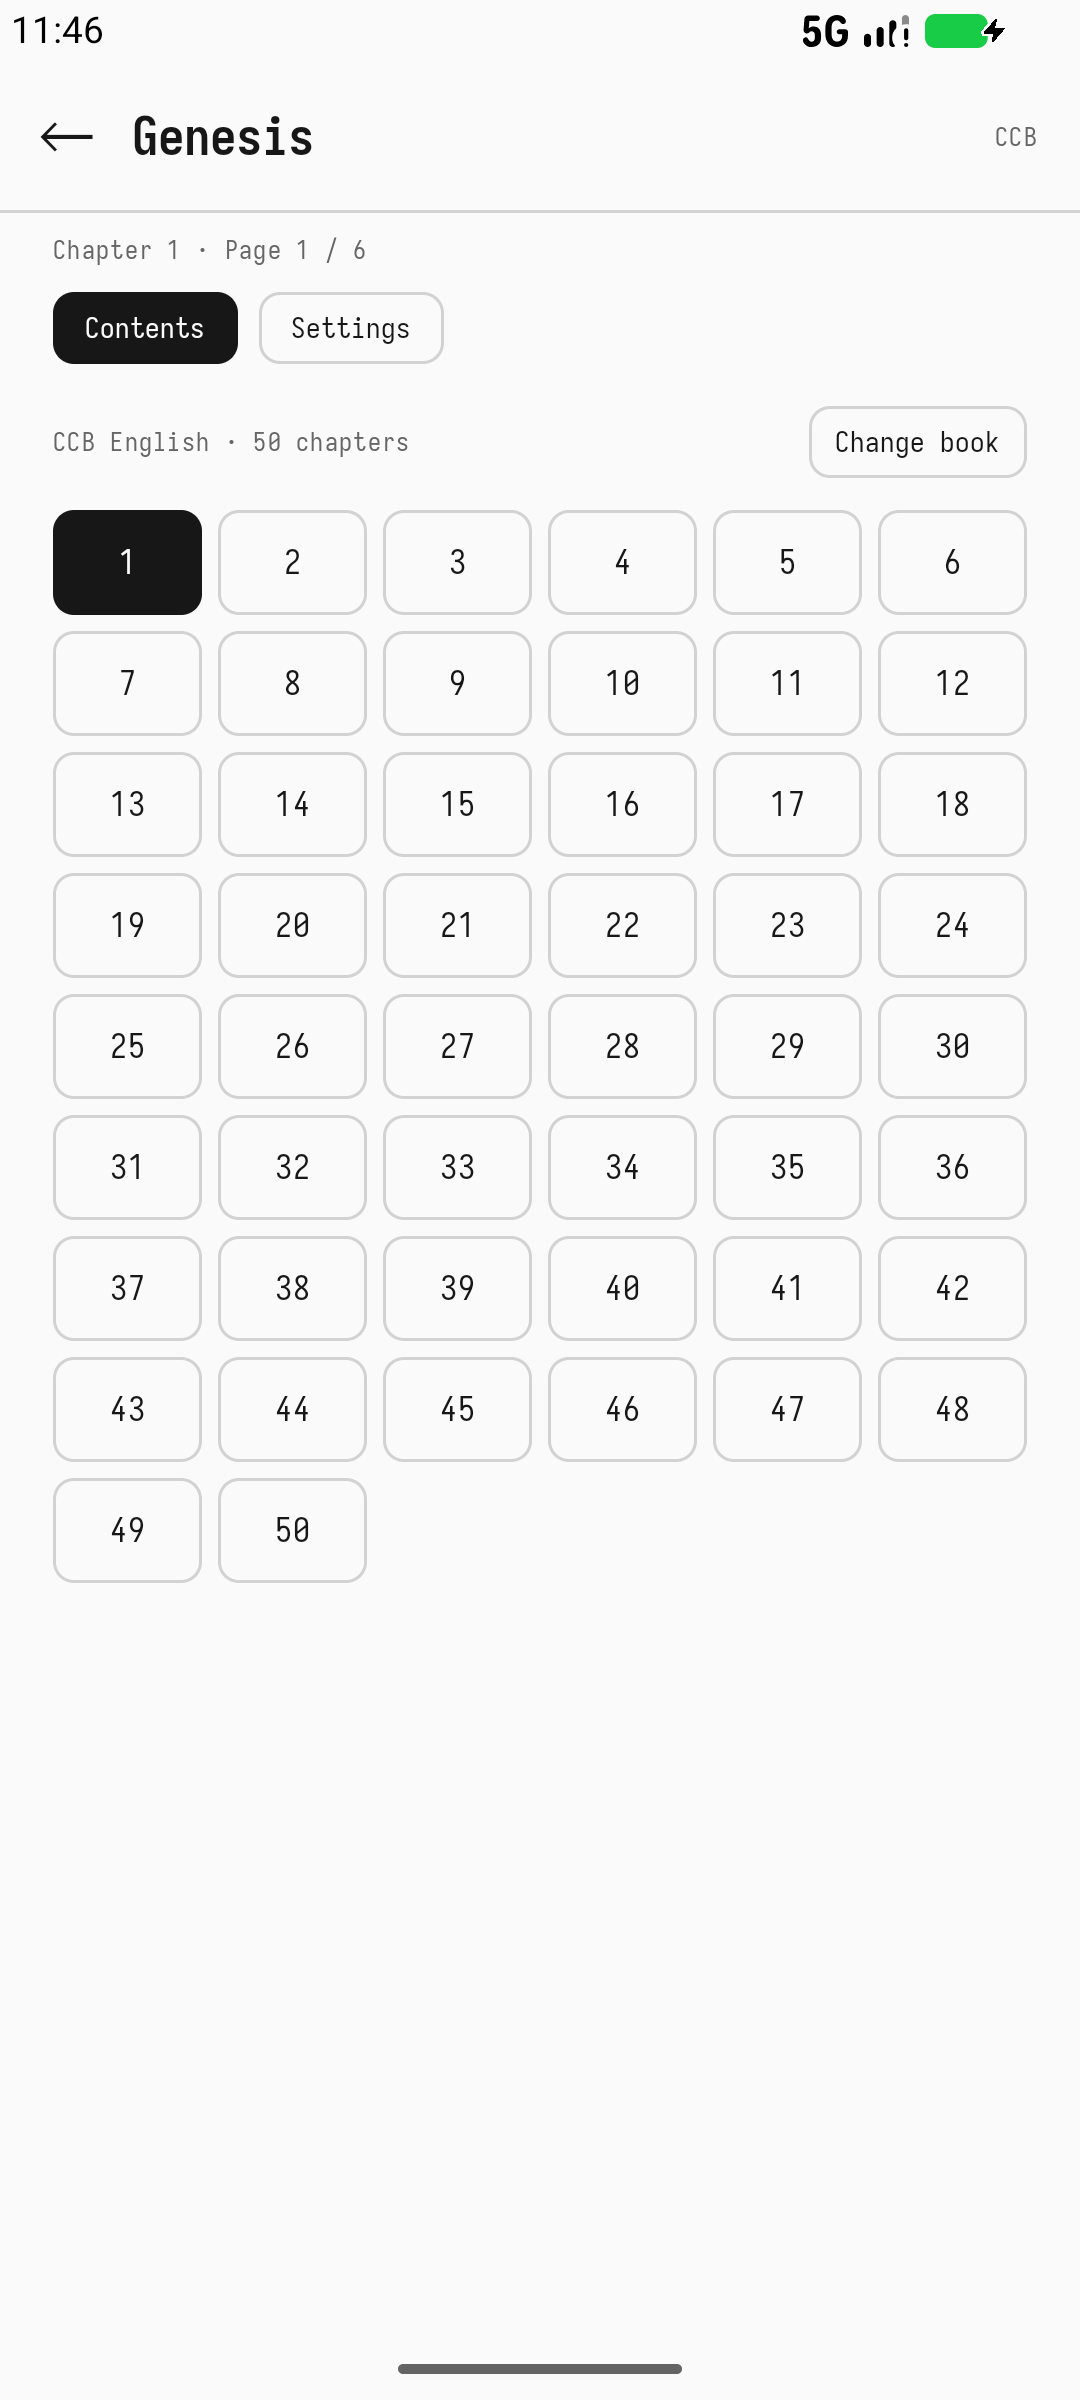
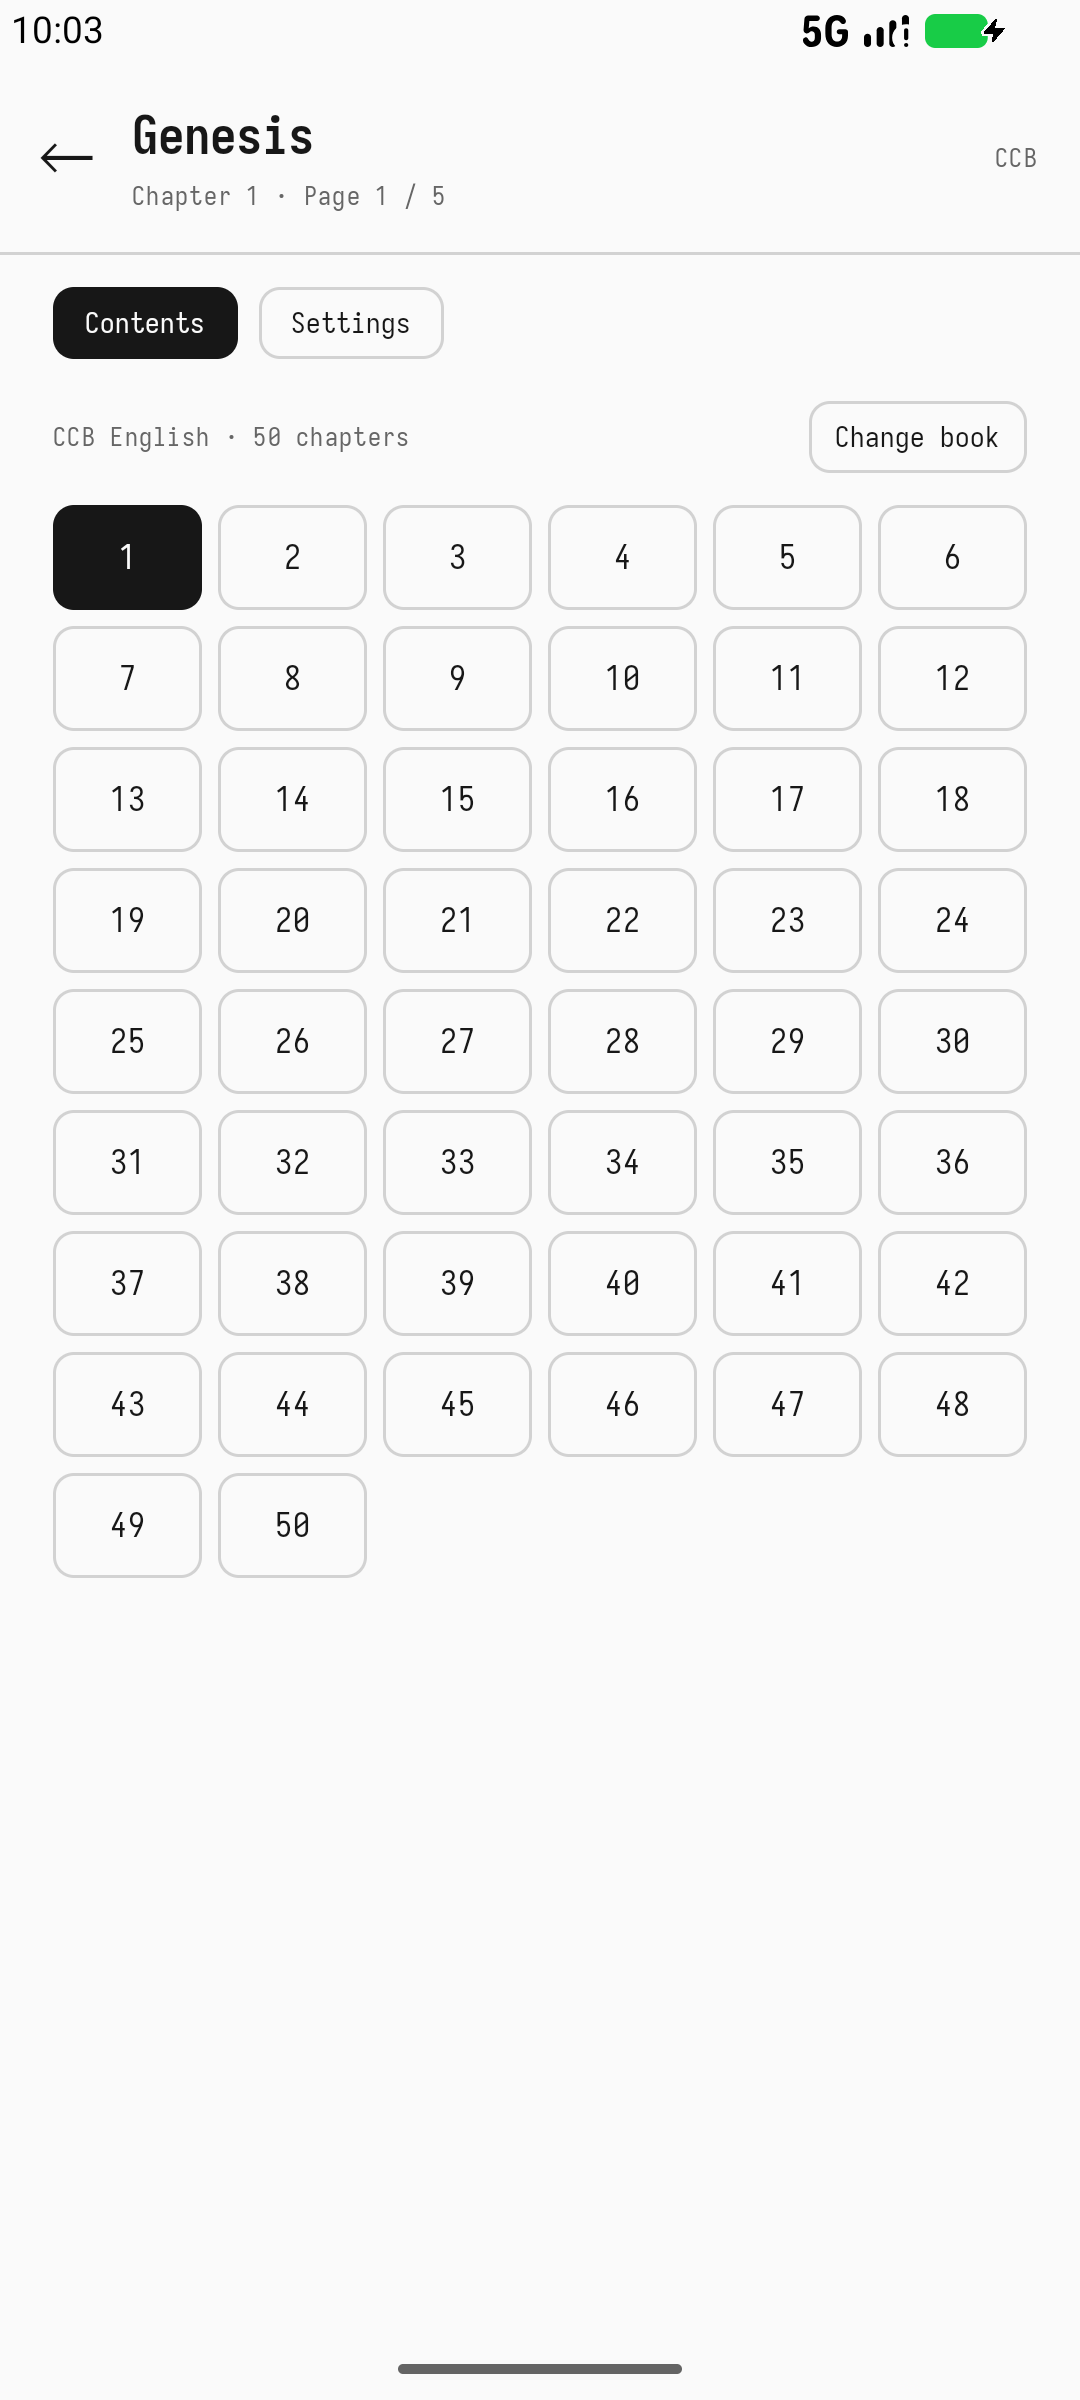
发布 1.8.4：取消菜单自动跳转，去除牧灵与思高注音
- 切换译本或章节后停留在当前界面，选择书卷后返回目录
- 菜单页头将章节/页码放到书卷名下方，并增加间距
- 行距默认值改为 0.0（已保存的自定义值保留）
- 牧灵、思高去除章节标题和正文中的拼音注音，保留章节范围、说明文字等其他括号内容
- CCB 英文与其他界面逻辑不变
- 更新 8 张 README 截图
- 版本号 1.8.4 (13)

diff --git a/app/src/main/java/com/chenyehui/bible/ui/ReaderSheet.kt b/app/src/main/java/com/chenyehui/bible/ui/ReaderSheet.kt
@@ -124,6 +124,8 @@ fun ReaderMenu(
                 ) {
                     MenuTopBar(
                         title = book.title,
+                        subtitle = "${chapterDisplayTitle(translation.language, chapter)} · " +
+                            pageLabel,
                         onBack = onDismiss,
                         trailing = strings.translationShort(translation),
                     )
@@ -135,14 +137,7 @@ fun ReaderMenu(
                             .padding(horizontal = 20.dp)
                             .padding(bottom = 12.dp),
                     ) {
-                        Spacer(Modifier.height(8.dp))
-                        Text(
-                            text = "${chapterDisplayTitle(translation.language, chapter)} · " +
-                                pageLabel,
-                            style = MaterialTheme.typography.labelSmall,
-                            color = palette.uiMuted,
-                        )
-                        Spacer(Modifier.height(10.dp))
+                        Spacer(Modifier.height(12.dp))
                         Row(verticalAlignment = Alignment.CenterVertically) {
                             ChoiceChip(
                                 text = strings.directory,
@@ -447,28 +442,42 @@ private fun MenuTopBar(
     title: String,
     onBack: () -> Unit,
     trailing: String,
+    subtitle: String? = null,
 ) {
     val palette = LocalBiblePalette.current
     Row(
         modifier = Modifier
             .fillMaxWidth()
-            .height(56.dp)
+            .height(if (subtitle != null) 72.dp else 56.dp)
             .padding(start = 4.dp, end = 16.dp),
         verticalAlignment = Alignment.CenterVertically,
     ) {
         TextIconButton(label = "←", onClick = onBack, fontSize = 22)
-        Text(
-            text = title,
-            style = MaterialTheme.typography.titleLarge.copy(
-                fontWeight = FontWeight.SemiBold,
-            ),
-            color = palette.uiText,
-            maxLines = 1,
-            overflow = TextOverflow.Ellipsis,
+        Column(
             modifier = Modifier
                 .weight(1f)
                 .padding(horizontal = 4.dp),
-        )
+        ) {
+            Text(
+                text = title,
+                style = MaterialTheme.typography.titleLarge.copy(
+                    fontWeight = FontWeight.SemiBold,
+                ),
+                color = palette.uiText,
+                maxLines = 1,
+                overflow = TextOverflow.Ellipsis,
+            )
+            if (subtitle != null) {
+                Spacer(Modifier.height(4.dp))
+                Text(
+                    text = subtitle,
+                    style = MaterialTheme.typography.labelSmall,
+                    color = palette.uiMuted,
+                    maxLines = 1,
+                    overflow = TextOverflow.Ellipsis,
+                )
+            }
+        }
         Text(
             text = trailing,
             style = MaterialTheme.typography.labelSmall,

diff --git a/app/src/main/java/com/chenyehui/bible/data/PinyinAnnotations.kt b/app/src/main/java/com/chenyehui/bible/data/PinyinAnnotations.kt
@@ -1,0 +1,55 @@
+package com.chenyehui.bible.data
+
+/**
+ * Removes phonetic annotations that the Chinese sources embed directly in the
+ * text, for example "混沌（dùn）" or "生(zī)". Only parenthesized content that
+ * is unambiguously pinyin is removed; section ranges and explanatory notes
+ * such as "（1-11）", "（休止）" or "（尼尼微即是那大城）" are left untouched.
+ */
+fun stripPinyinAnnotations(text: String): String {
+    if (text.indexOf('（') < 0 && text.indexOf('(') < 0) return text
+    return PARENTHESIZED_ANNOTATION.replace(text) { match ->
+        if (isPinyinAnnotation(match.groupValues[1])) "" else match.value
+    }
+}
+
+private val PARENTHESIZED_ANNOTATION = Regex("[（(]([^（）()]*)[）)]")
+private val ZERO_WIDTH = Regex("[\\u200B\\u200C\\u200D\\u2060\\uFEFF]")
+
+private val PINYIN_TONE_MARKS = setOf(
+    'ā', 'á', 'ǎ', 'à',
+    'ē', 'é', 'ě', 'è',
+    'ī', 'í', 'ǐ', 'ì',
+    'ō', 'ó', 'ǒ', 'ò',
+    'ū', 'ú', 'ǔ', 'ù',
+    'ǖ', 'ǘ', 'ǚ', 'ǜ',
+    'Ā', 'Á', 'Ǎ', 'À',
+    'Ē', 'É', 'Ě', 'È',
+    'Ī', 'Í', 'Ǐ', 'Ì',
+    'Ō', 'Ó', 'Ǒ', 'Ò',
+    'Ū', 'Ú', 'Ǔ', 'Ù',
+    'Ǖ', 'Ǘ', 'Ǚ', 'Ǜ',
+)
+
+private val PINYIN_EXTRA_LETTERS = setOf(
+    'ü', 'Ü', 'ê', 'Ê', 'ń', 'ň', 'ǹ', 'Ń', 'Ň', 'Ǹ', 'ḿ', 'Ḿ',
+)
+
+private val PINYIN_SEPARATORS = setOf('\'', '’', '·', '-')
+
+private fun isPinyinAnnotation(raw: String): Boolean {
+    val value = ZERO_WIDTH.replace(raw, "").trim()
+    if (value.isEmpty()) return false
+    // A tone mark is the discriminator that keeps this matcher from eating
+    // Latin words or numbered cross-references. The bundled Chinese sources
+    // have no tone-numbered or neutral-tone-only annotations.
+    if (value.none { it in PINYIN_TONE_MARKS }) return false
+    return value.all { char ->
+        char in 'a'..'z' ||
+            char in 'A'..'Z' ||
+            char in PINYIN_TONE_MARKS ||
+            char in PINYIN_EXTRA_LETTERS ||
+            char == ' ' ||
+            char in PINYIN_SEPARATORS
+    }
+}

diff --git a/app/src/main/java/com/chenyehui/bible/data/BibleRepository.kt b/app/src/main/java/com/chenyehui/bible/data/BibleRepository.kt
@@ -30,7 +30,10 @@ class BibleRepository(private val context: Context) {
         val text = context.assets.open(path)
             .bufferedReader(Charsets.UTF_8)
             .use { it.readText() }
-        val book = parseBook(JSONObject(text))
+        val book = parseBook(
+            root = JSONObject(text),
+            stripPinyin = versionId == "muling" || versionId == "sigao",
+        )
         bookCache.put(key, book)
         return book
     }
@@ -63,7 +66,10 @@ class BibleRepository(private val context: Context) {
         return Manifest(versions)
     }
 
-    private fun parseBook(root: JSONObject): Book {
+    private fun parseBook(root: JSONObject, stripPinyin: Boolean): Book {
+        fun content(value: String): String =
+            if (stripPinyin) stripPinyinAnnotations(value) else value
+
         val chaptersArray = root.getJSONArray("chapters")
         val chapters = ArrayList<Chapter>(chaptersArray.length())
         for (i in 0 until chaptersArray.length()) {
@@ -75,11 +81,11 @@ class BibleRepository(private val context: Context) {
                 when (block.getString(0)) {
                     "v" -> blocks += Block.Verse(
                         number = block.getInt(1),
-                        text = block.getString(2),
+                        text = content(block.getString(2)),
                     )
 
-                    "h3" -> blocks += Block.Heading(3, block.getString(1))
-                    "h4" -> blocks += Block.Heading(4, block.getString(1))
+                    "h3" -> blocks += Block.Heading(3, content(block.getString(1)))
+                    "h4" -> blocks += Block.Heading(4, content(block.getString(1)))
                     "br" -> blocks += Block.ParagraphBreak
                     else -> error("Unknown block type: ${block.getString(0)}")
                 }

diff --git a/app/src/main/java/com/chenyehui/bible/ui/ReaderScreen.kt b/app/src/main/java/com/chenyehui/bible/ui/ReaderScreen.kt
@@ -228,7 +228,6 @@ fun ReaderScreen(
         pageIndex = 0
         pageCount = 0
         seekLastPage = lastChapter
-        sheetTab = null
     }
 
     fun switchTranslation(newId: String) {
@@ -242,7 +241,6 @@ fun ReaderScreen(
         pageCount = 0
         seekLastPage = false
         onTranslationChanged(next.id)
-        sheetTab = null
     }
 
     // Keep the screen awake only while the text itself is on screen. The menu,
@@ -891,7 +889,6 @@ fun ReaderScreen(
                         anchorOffset = 0
                         pageIndex = 0
                     }
-                    sheetTab = null
                 },
                 onTranslationChange = ::switchTranslation,
                 onBookSelected = { id ->

diff --git a/app/src/main/java/com/chenyehui/bible/data/AppPrefs.kt b/app/src/main/java/com/chenyehui/bible/data/AppPrefs.kt
@@ -127,7 +127,7 @@ class AppPrefs(context: Context) {
         const val MIN_LETTER_SPACING = 0f
         const val MAX_LETTER_SPACING = 2f
 
-        const val DEFAULT_LINE_SPACING_EXTRA = 0.1f
+        const val DEFAULT_LINE_SPACING_EXTRA = 0.0f
         const val MIN_LINE_SPACING_EXTRA = 0f
         const val MAX_LINE_SPACING_EXTRA = 1f
 
